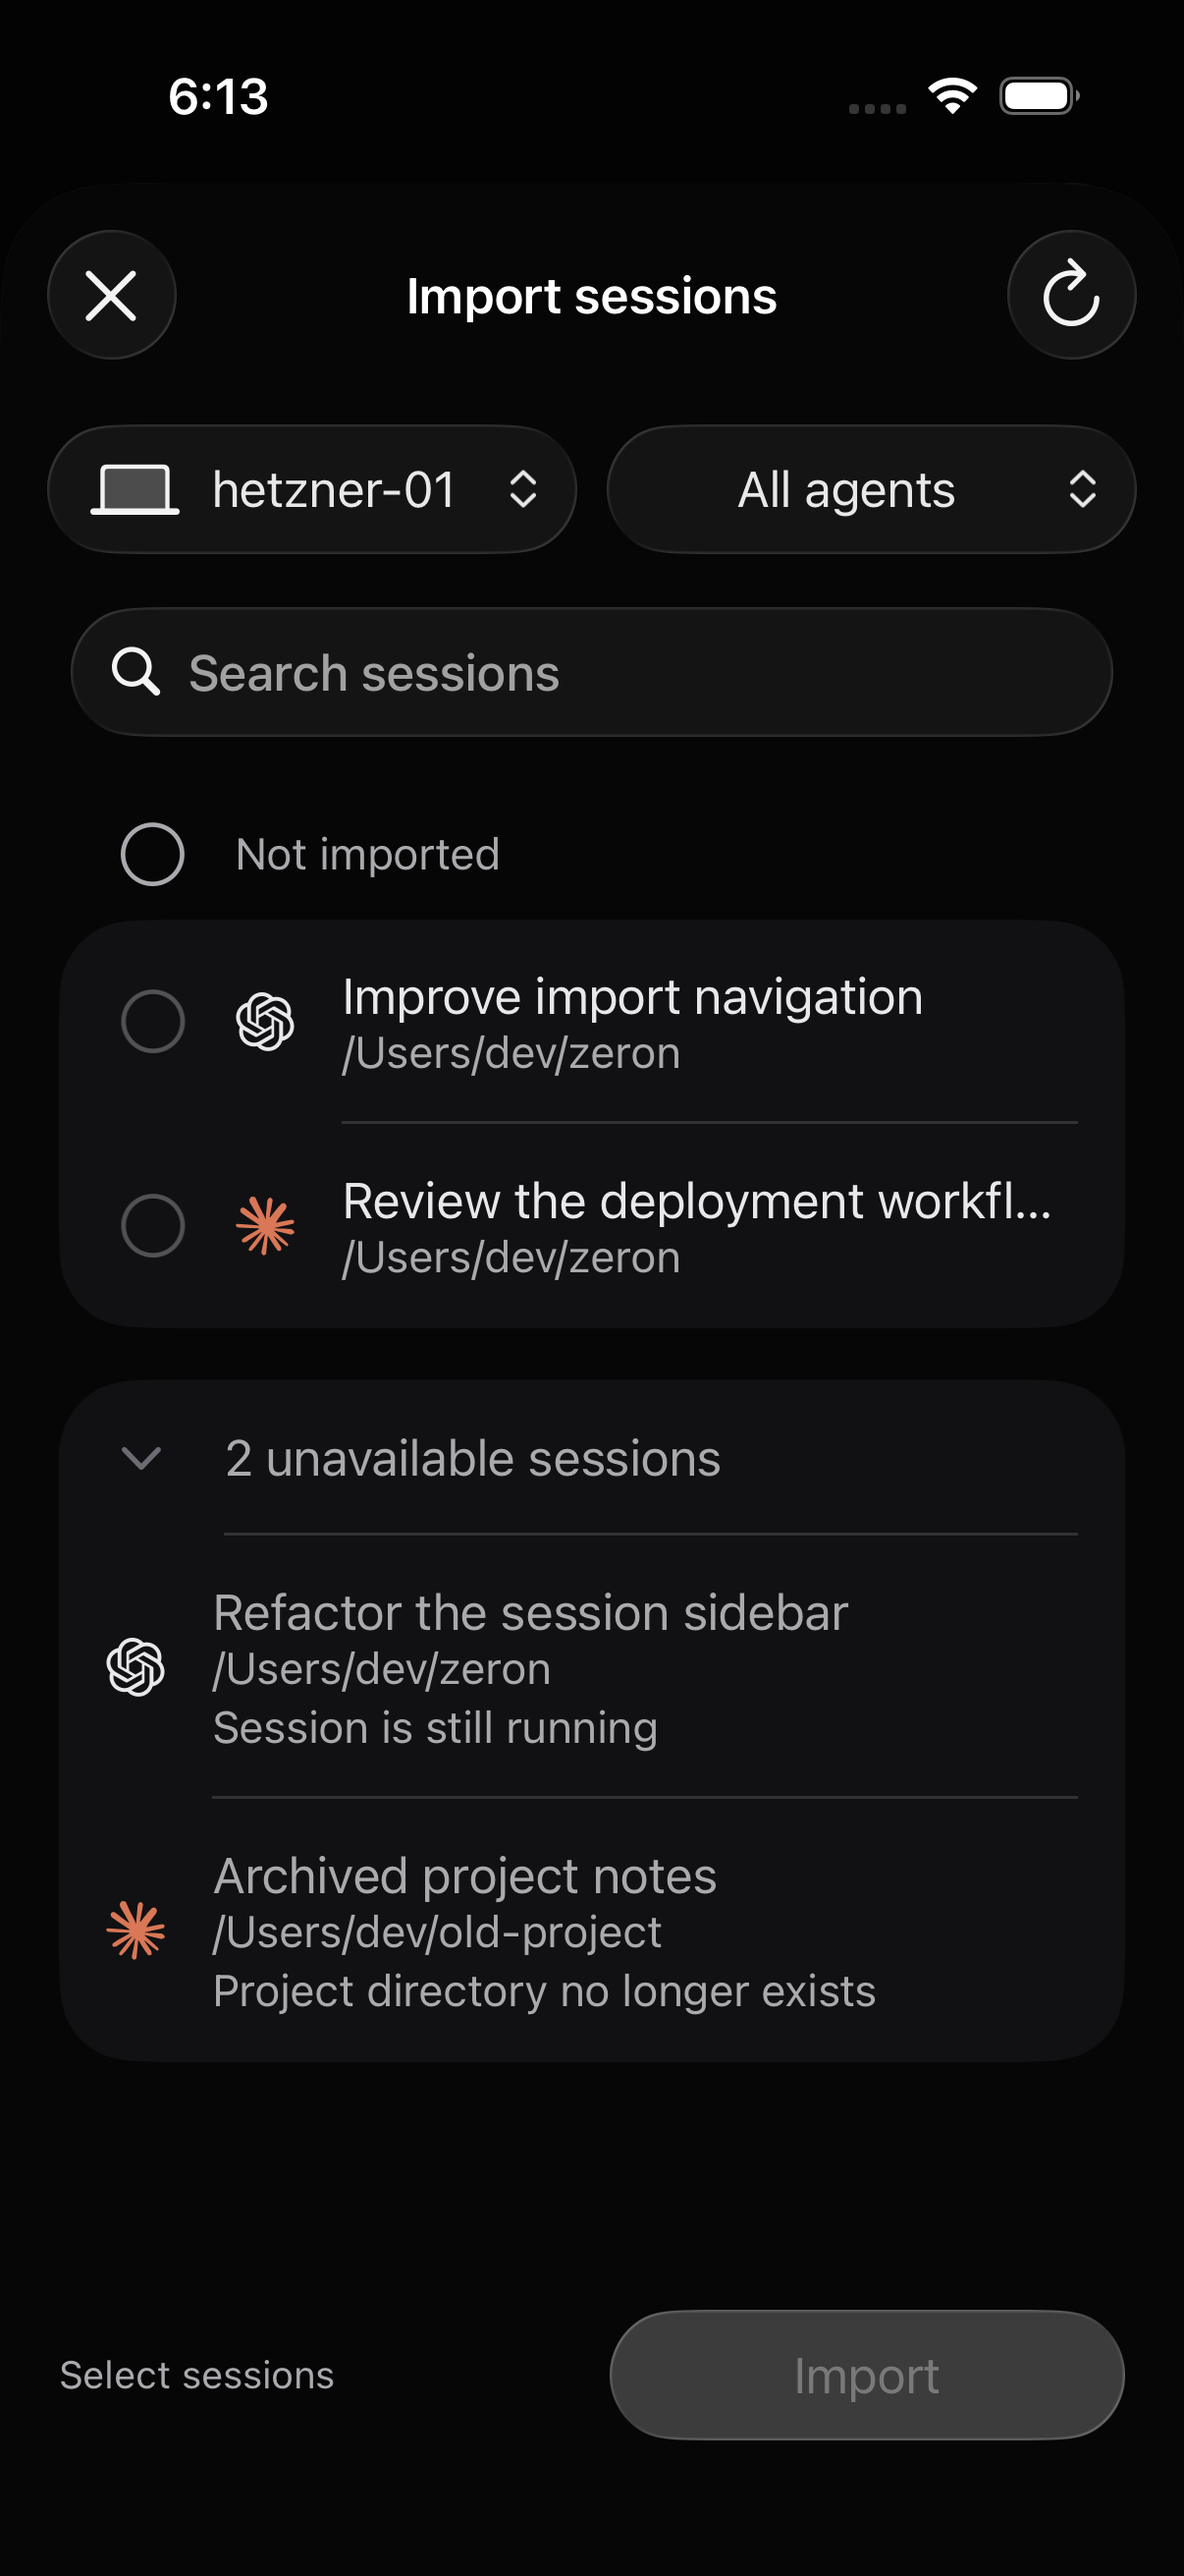
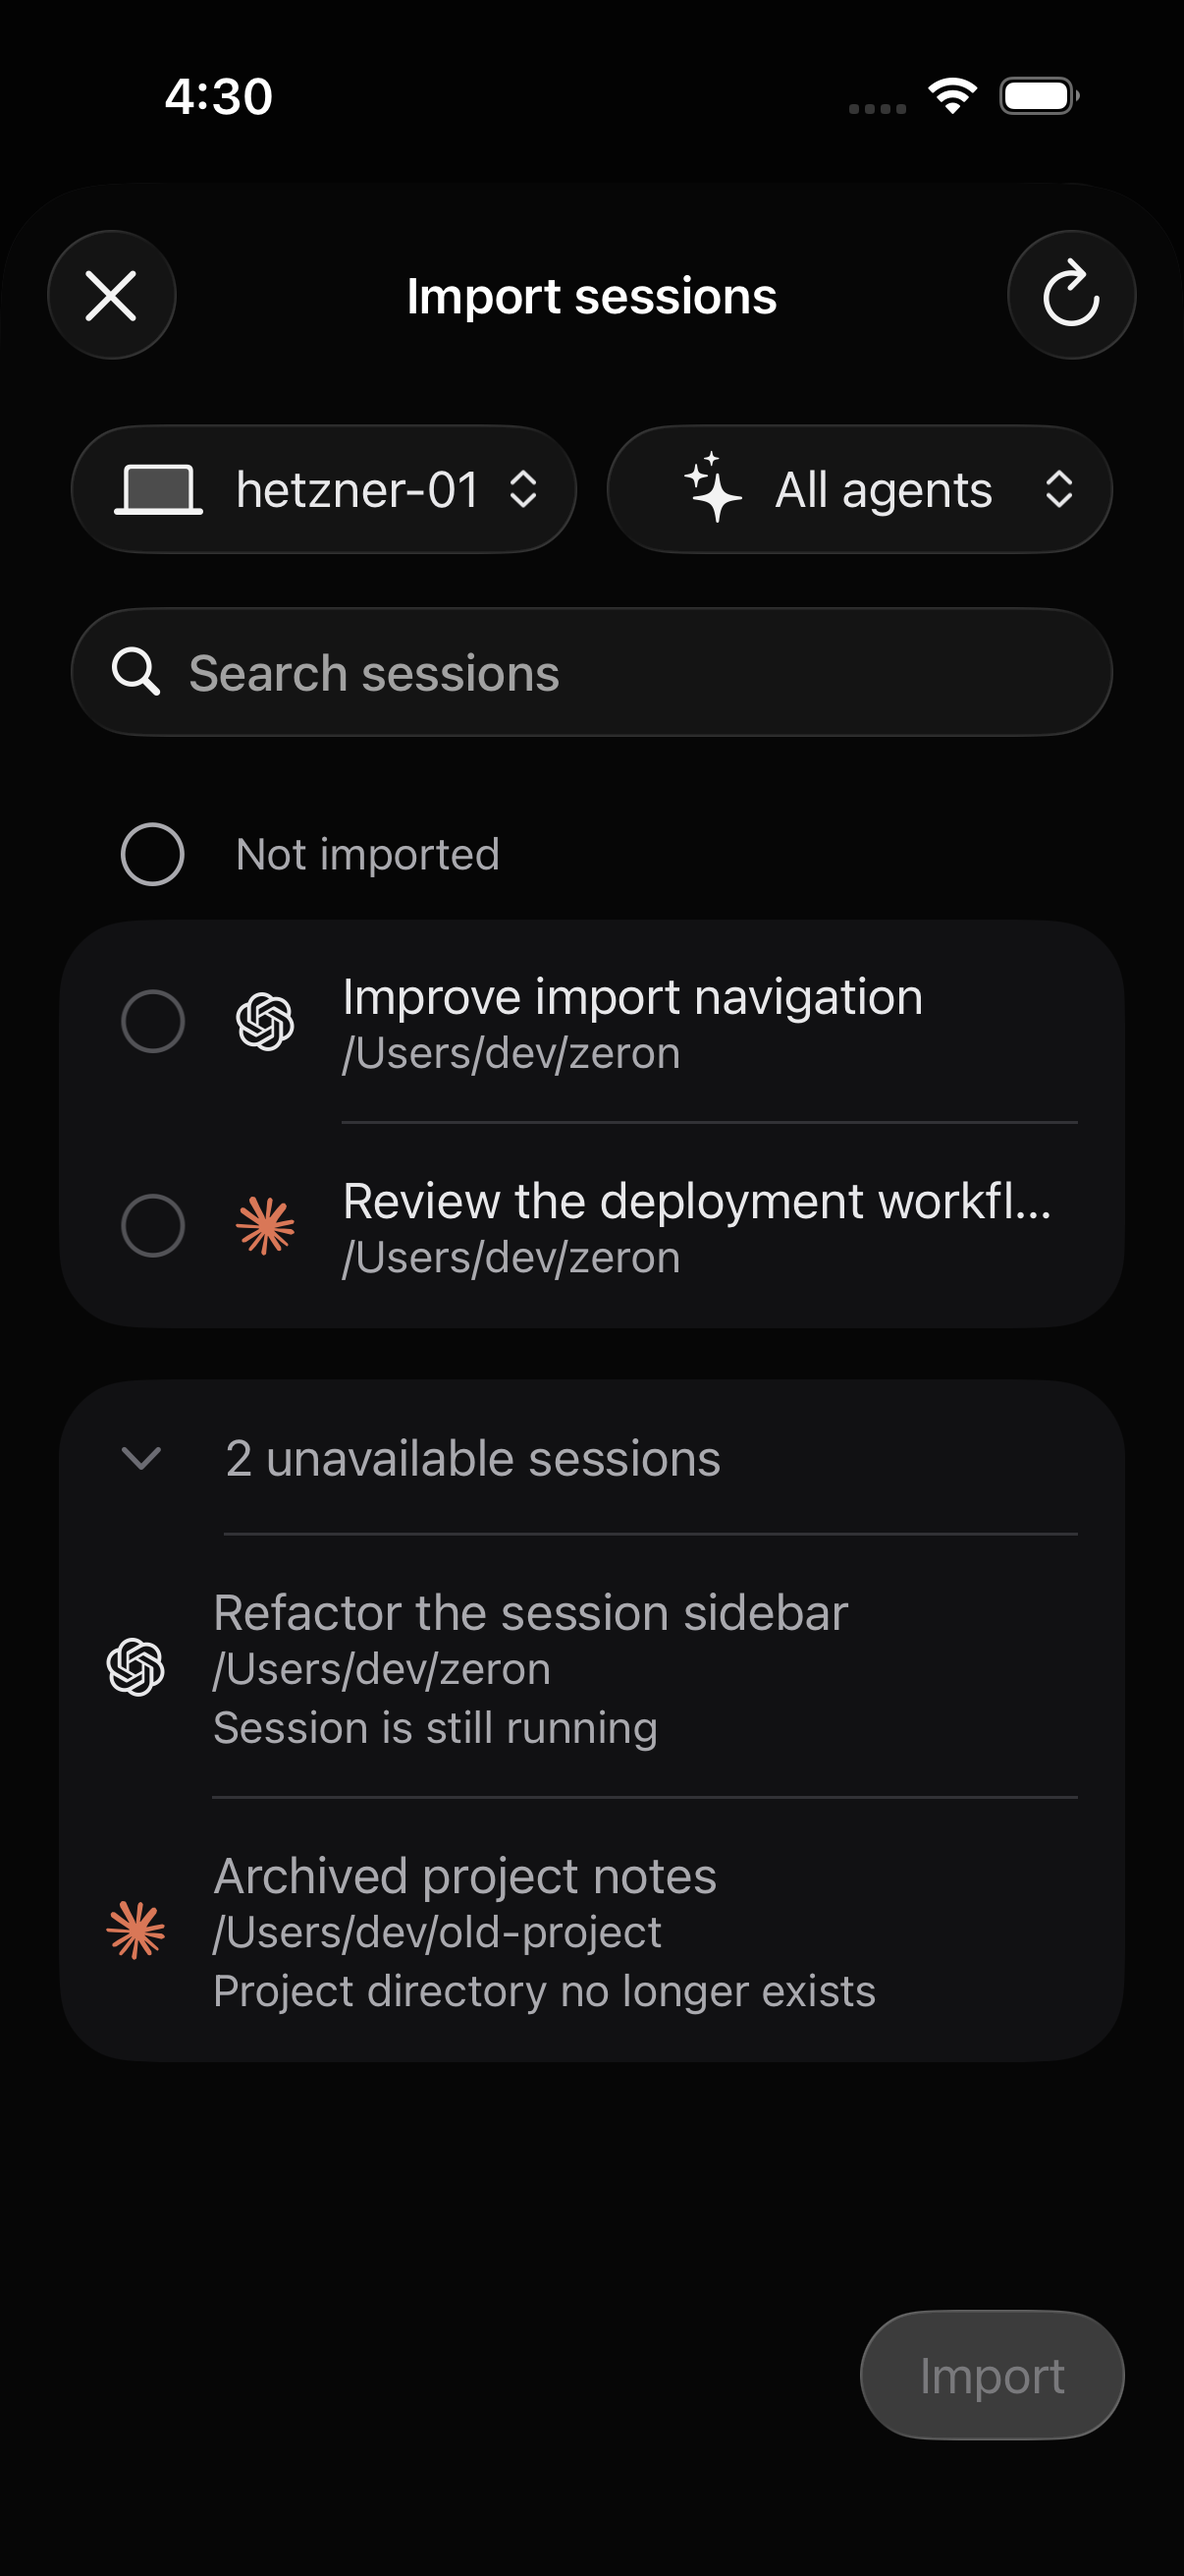
docs: update screenshots for aligned import controls

diff --git a/docs/screenshots/ios-import-layout/README.md b/docs/screenshots/ios-import-layout/README.md
@@ -1,18 +1,19 @@
 These are unedited XCTest screenshots from the offline demo workspace on an
 **iPhone 17 Pro simulator**, built with **Xcode 26.6**.
 
-Source revision: `74094dec9e9b01becefdafa826f517689a8003fa`.
-CI run: https://github.com/AndPuQing/zeron/actions/runs/39207343088
+Source revision: `eccce9b8ecd500e20c6ba9fe8d13a740a1ab2e82`.
+CI run: https://github.com/AndPuQing/zeron/actions/runs/39283804901
 
-- `light-selected.png`: native row selection and a mixed group checkbox.
-- `dark.png`: empty group checkbox, native search and collapsed unavailable histories.
+- `light-selected.png`: native row selection and a mixed group checkbox; the selection count appears only in Import.
+- `dark.png`: aligned native filters and search, an All agents icon, and collapsed unavailable histories.
 - `unavailable.png`: expanded histories with their unavailability reasons.
-- `agents.png`: native single-selection agent menu with Claude selected.
+- `agents.png`: native single-selection agent menu with an All agents icon and Claude selected.
 - `agent-selected.png`: selected agent brand mark and native pop-up indicator.
 - `hosts.png`: native computer menu, including an unavailable computer.
 
 18 native unit tests and 8 UI tests passed. The two import flows cover
-select-all and clear states, preserving hidden selections through filtering,
+visible filter/search alignment, button-only selection counts, select-all and
+clear states, preserving hidden selections through filtering,
 restoring native row selection by source identity, keyboard bounds, unavailable
 history disclosure, scroll pagination, agent selection and switching computers.
 The standalone Select visible and Load more sessions rows are removed. VoiceOver
